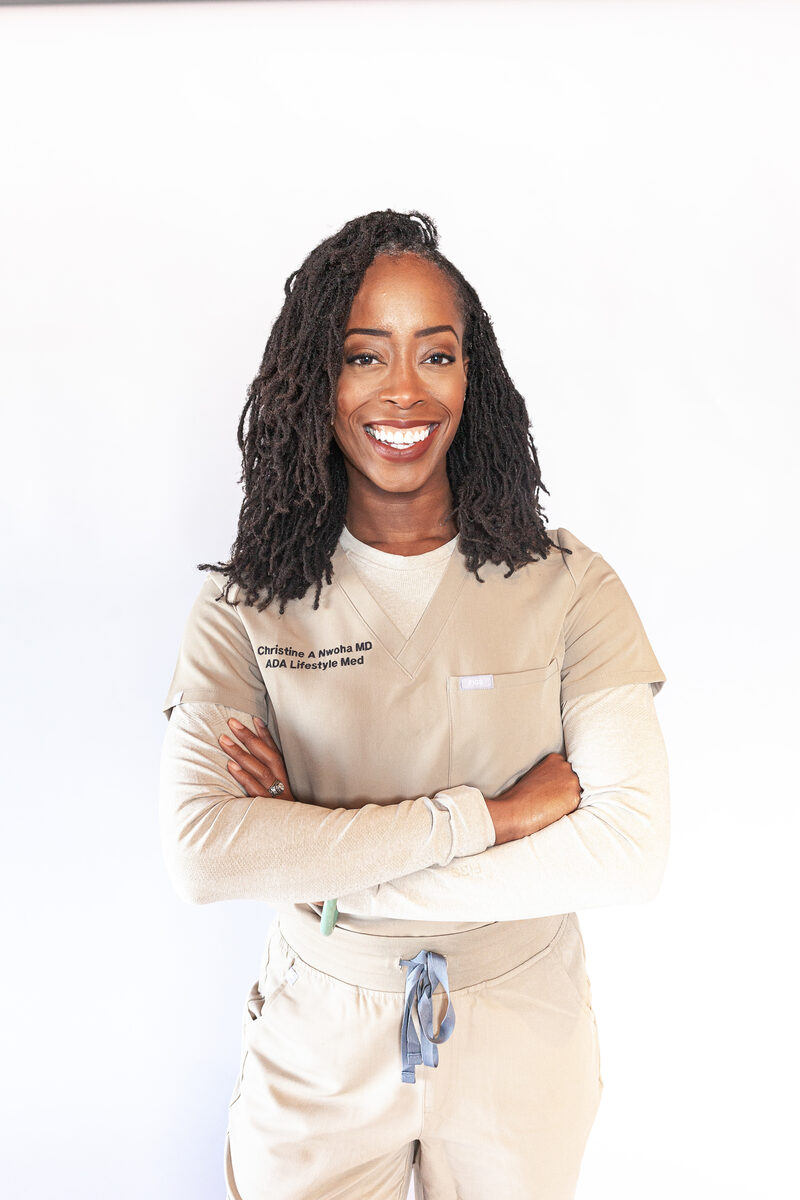
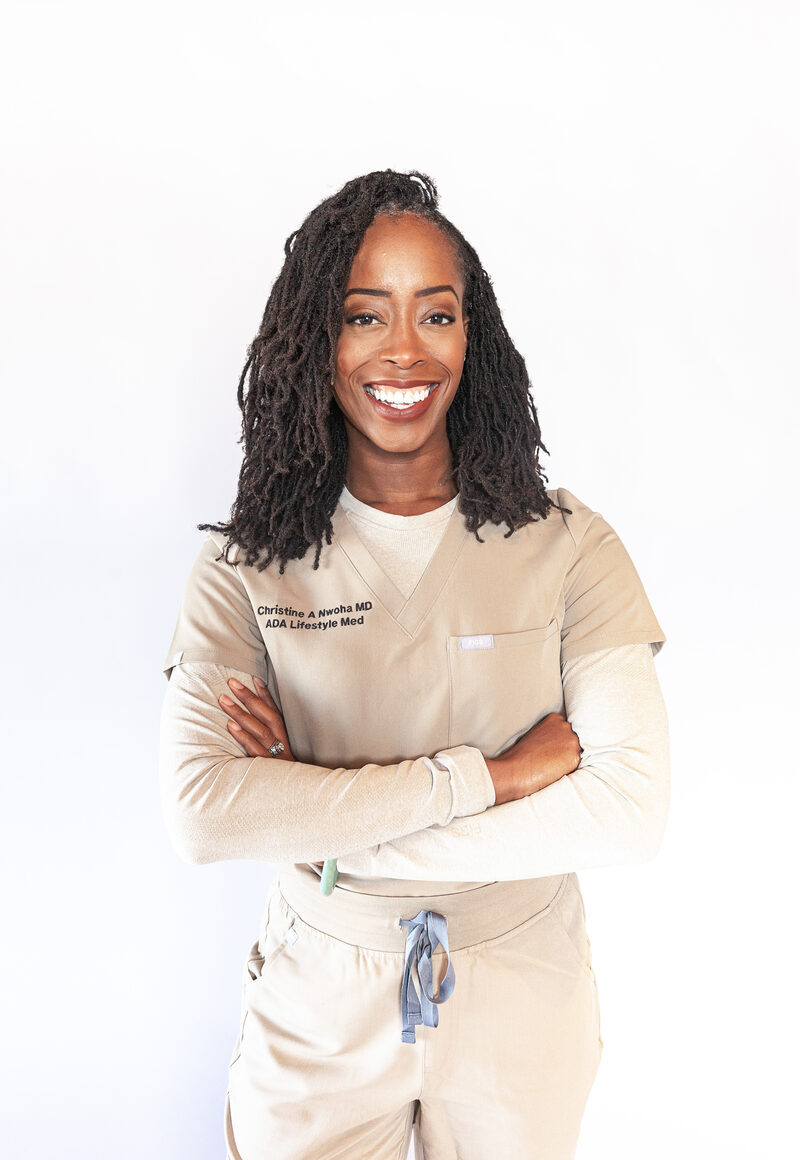
Polish speakers page: 3-col grid, premium cards, image fixes
- 3x2 grid on desktop, 2-col tablet, 1-col mobile
- White card backgrounds with subtle shadow + hover lift
- 4/5 aspect ratio, consistent photo treatment
- Removed tag pill clutter from all cards
- Lavender divider between grid and spotlight
- Dr. Jila: white background applied to image
- Dr. Christine: cropped top line from image
- Em dashes removed from copy

diff --git a/public/speakers/index.html b/public/speakers/index.html
@@ -5,7 +5,7 @@
   <meta name="viewport" content="width=device-width, initial-scale=1.0" />
   <title>Menopause Experts &amp; Midlife Health Speakers | elevatePAUSE 2026</title>
   <meta name="description" content="Meet the physicians, menopause experts, and wellness advocates speaking at elevatePAUSE 2026, a midlife and longevity summit for women in Atlanta, Georgia." />
-  <meta property="og:title" content="Speakers | elevatePAUSE 2026 — Midlife &amp; Longevity Summit" />
+  <meta property="og:title" content="Speakers | elevatePAUSE 2026 - Midlife &amp; Longevity Summit" />
   <meta property="og:description" content="Clinicians, researchers, advocates, and authors. Experts in perimenopause, menopause, hormonal health, longevity, and whole-person wellness." />
   <meta property="og:type" content="website" />
   <meta property="og:url" content="https://www.elevatepause.com/speakers" />
@@ -78,18 +78,27 @@
     .speakers-section h2 { font-size: clamp(28px, 3.5vw, 40px); color: var(--plum); text-align: center; margin-bottom: 64px; }
     .speakers-grid {
       display: grid;
-      grid-template-columns: repeat(auto-fill, minmax(190px, 1fr));
+      grid-template-columns: repeat(3, 1fr);
       gap: 32px;
-      max-width: 1200px;
+      max-width: 1100px;
       margin: 0 auto;
     }
-    .speaker-card { text-align: center; }
+    .speaker-card {
+      text-align: center;
+      background: var(--white);
+      border-radius: 12px;
+      box-shadow: 0 2px 12px rgba(61,24,96,0.08), 0 1px 3px rgba(61,24,96,0.06);
+      overflow: hidden;
+      transition: transform 0.2s ease, box-shadow 0.2s ease;
+    }
+    .speaker-card:hover {
+      transform: translateY(-4px);
+      box-shadow: 0 10px 32px rgba(61,24,96,0.14), 0 3px 8px rgba(61,24,96,0.08);
+    }
     .speaker-photo {
       width: 100%;
-      aspect-ratio: 3/4;
-      border-radius: 8px;
+      aspect-ratio: 4/5;
       overflow: hidden;
-      margin-bottom: 16px;
       background: linear-gradient(135deg, var(--lavender-light) 0%, var(--lavender) 100%);
       display: flex;
       align-items: flex-end;
@@ -107,10 +116,9 @@
       font-family: Georgia, serif; font-size: 36px; font-weight: 600;
       color: var(--plum-light);
     }
-    .speaker-name { font-family: Georgia,'Times New Roman',serif; font-size: 16px; font-weight: 600; color: var(--plum); margin-bottom: 4px; }
-    .speaker-title { font-size: 12px; font-weight: 600; letter-spacing: 0.06em; text-transform: uppercase; color: var(--plum-light); margin-bottom: 8px; }
-    .speaker-tags { display: flex; flex-wrap: wrap; gap: 4px; justify-content: center; }
-    .speaker-tag { font-size: 11px; color: var(--text-mid); background: var(--lavender-light); border-radius: 20px; padding: 3px 10px; }
+    .speaker-card-body { padding: 20px 20px 24px; }
+    .speaker-name { font-family: Georgia,'Times New Roman',serif; font-size: 17px; font-weight: 600; color: var(--plum); margin-bottom: 6px; }
+    .speaker-title { font-size: 12px; font-weight: 600; letter-spacing: 0.07em; text-transform: uppercase; color: var(--plum-light); }
 
     /* ── Spotlight ── */
     .spotlight-section {
@@ -180,6 +188,7 @@
     .footer-nav a:hover { color: var(--white); }
 
     /* ── Responsive ── */
+    .section-divider { border: none; border-top: 1px solid var(--lavender); margin: 0; }
     @media (max-width: 900px) {
       .site-nav { padding: 0 24px; }
       .nav-links { display: none; }
@@ -193,8 +202,8 @@
       .spotlight-pillars { grid-template-columns: repeat(2, 1fr); }
       .speakers-section, .spotlight-section, .cta-section { padding: 72px 24px; }
     }
-    @media (max-width: 500px) {
-      .speakers-grid { grid-template-columns: 1fr 1fr; gap: 16px; }
+    @media (max-width: 599px) {
+      .speakers-grid { grid-template-columns: 1fr; gap: 20px; }
     }
   </style>
 </head>
@@ -241,13 +250,9 @@
         <div class="speaker-photo">
           <img src="/assets/speakers/dr-jessica-shepherd.jpg" alt="Dr. Jessica Shepherd, OB-GYN and Menopause Expert" loading="lazy" />
         </div>
-        <p class="speaker-name">Dr. Jessica Shepherd</p>
-        <p class="speaker-title">OB-GYN | Menopause Expert</p>
-        <div class="speaker-tags">
-          <span class="speaker-tag">Menopause</span>
-          <span class="speaker-tag">Hormones</span>
-          <span class="speaker-tag">Women's Health</span>
-          <span class="speaker-tag">Midlife</span>
+        <div class="speaker-card-body">
+          <p class="speaker-name">Dr. Jessica Shepherd</p>
+          <p class="speaker-title">OB-GYN | Menopause Expert</p>
         </div>
       </div>
 
@@ -255,13 +260,9 @@
         <div class="speaker-photo">
           <img src="/assets/speakers/dr-jill-senemar.jpg" alt="Dr. Jill Senemar, OB-GYN and Menopause Specialist" loading="lazy" />
         </div>
-        <p class="speaker-name">Dr. Jill Senemar</p>
-        <p class="speaker-title">OB-GYN | Menopause Specialist</p>
-        <div class="speaker-tags">
-          <span class="speaker-tag">Menopause</span>
-          <span class="speaker-tag">HRT</span>
-          <span class="speaker-tag">Hormonal Balance</span>
-          <span class="speaker-tag">Midlife</span>
+        <div class="speaker-card-body">
+          <p class="speaker-name">Dr. Jill Senemar</p>
+          <p class="speaker-title">OB-GYN | Menopause Specialist</p>
         </div>
       </div>
 
@@ -269,13 +270,9 @@
         <div class="speaker-photo">
           <img src="/assets/speakers/dr-nicole-peoples.jpg" alt="Dr. Nicole Peoples, Functional Medicine Physician" loading="lazy" />
         </div>
-        <p class="speaker-name">Dr. Nicole Peoples</p>
-        <p class="speaker-title">Functional Medicine Physician</p>
-        <div class="speaker-tags">
-          <span class="speaker-tag">Longevity</span>
-          <span class="speaker-tag">Metabolic Health</span>
-          <span class="speaker-tag">Nutrition</span>
-          <span class="speaker-tag">Hormones</span>
+        <div class="speaker-card-body">
+          <p class="speaker-name">Dr. Nicole Peoples</p>
+          <p class="speaker-title">Functional Medicine Physician</p>
         </div>
       </div>
 
@@ -283,13 +280,9 @@
         <div class="speaker-photo">
           <img src="/assets/speakers/dr-christine-nwoha.jpg" alt="Dr. Christine Nwoha, Lifestyle Medicine Physician" loading="lazy" />
         </div>
-        <p class="speaker-name">Dr. Christine Nwoha</p>
-        <p class="speaker-title">Lifestyle Medicine Physician</p>
-        <div class="speaker-tags">
-          <span class="speaker-tag">Metabolic Health</span>
-          <span class="speaker-tag">Weight Management</span>
-          <span class="speaker-tag">Hormones</span>
-          <span class="speaker-tag">Preventive Medicine</span>
+        <div class="speaker-card-body">
+          <p class="speaker-name">Dr. Christine Nwoha</p>
+          <p class="speaker-title">Lifestyle Medicine Physician</p>
         </div>
       </div>
 
@@ -297,13 +290,9 @@
         <div class="speaker-photo">
           <img src="/assets/speakers/dr-ayana-herbert.jpg" alt="Dr. Ayana Herbert, Wellness Educator" loading="lazy" />
         </div>
-        <p class="speaker-name">Dr. Ayana Herbert</p>
-        <p class="speaker-title">Wellness Educator</p>
-        <div class="speaker-tags">
-          <span class="speaker-tag">Practical Wellness</span>
-          <span class="speaker-tag">Women's Health</span>
-          <span class="speaker-tag">Mind-Body</span>
-          <span class="speaker-tag">Resilience</span>
+        <div class="speaker-card-body">
+          <p class="speaker-name">Dr. Ayana Herbert</p>
+          <p class="speaker-title">Wellness Educator</p>
         </div>
       </div>
 
@@ -312,18 +301,16 @@
         <div class="speaker-photo">
           <img src="/assets/speakers/dr-deretta-rhodes.jpg" alt="Dr. DeRetta Rhodes PhD, Chief People Officer and Women's Leadership Speaker" loading="lazy" />
         </div>
-        <p class="speaker-name">Dr. DeRetta Rhodes</p>
-        <p class="speaker-title">Chief People Officer | Women's Leadership</p>
-        <div class="speaker-tags">
-          <span class="speaker-tag">Executive Leadership</span>
-          <span class="speaker-tag">Women in Workplace</span>
-          <span class="speaker-tag">DEI</span>
-          <span class="speaker-tag">Midlife Career</span>
+        <div class="speaker-card-body">
+          <p class="speaker-name">Dr. DeRetta Rhodes</p>
+          <p class="speaker-title">Chief People Officer | Women's Leadership</p>
         </div>
       </div>
 
     </div>
   </section>
+
+  <hr class="section-divider" />
 
   <!-- PANELIST SPOTLIGHT -->
   <section class="spotlight-section fade-in">
@@ -341,7 +328,7 @@
           <span class="specialty-pill">Functional Medicine</span>
           <span class="specialty-pill">Sustainable Wellness</span>
         </div>
-        <p class="spotlight-bio">Dr. Shelia Payton bridges the gap between clinical expertise and everyday wellness — helping women create sustainable change from the inside out. Her work blends functional medicine, chiropractic care, and lifestyle strategy to address the root causes of imbalance and support vibrant living in midlife and beyond. Specialties include perimenopause, menopause, hormonal imbalance, chiropractic care, and functional wellness for women over 40.</p>
+        <p class="spotlight-bio">Dr. Shelia Payton bridges the gap between clinical expertise and everyday wellness, helping women create sustainable change from the inside out. Her work blends functional medicine, chiropractic care, and lifestyle strategy to address the root causes of imbalance and support vibrant living in midlife and beyond. Specialties include perimenopause, menopause, hormonal imbalance, chiropractic care, and functional wellness for women over 40.</p>
         <div class="spotlight-pillars">
           <div class="pillar-item"><div class="pillar-icon">🔍</div><p class="pillar-label">Root Cause</p></div>
           <div class="pillar-item"><div class="pillar-icon">⚡</div><p class="pillar-label">Whole-Body</p></div>
